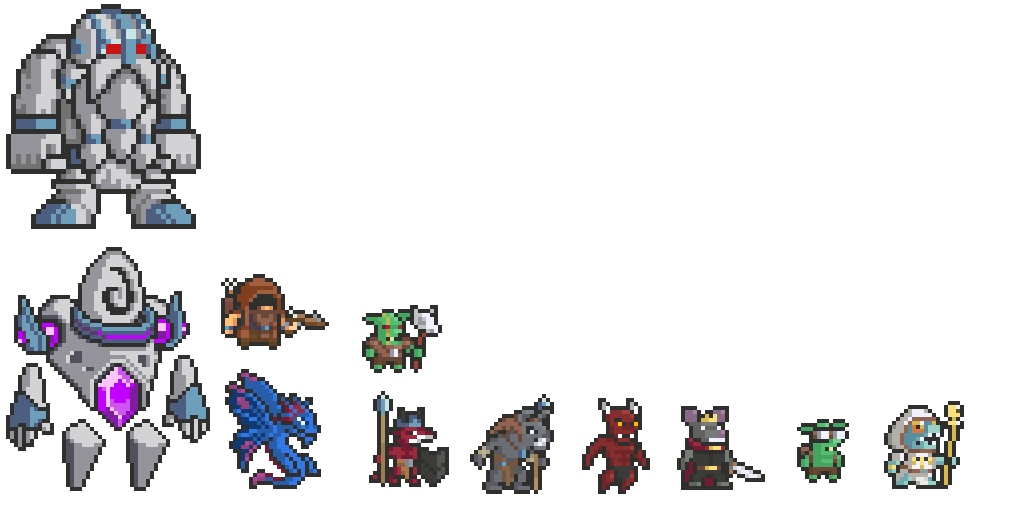
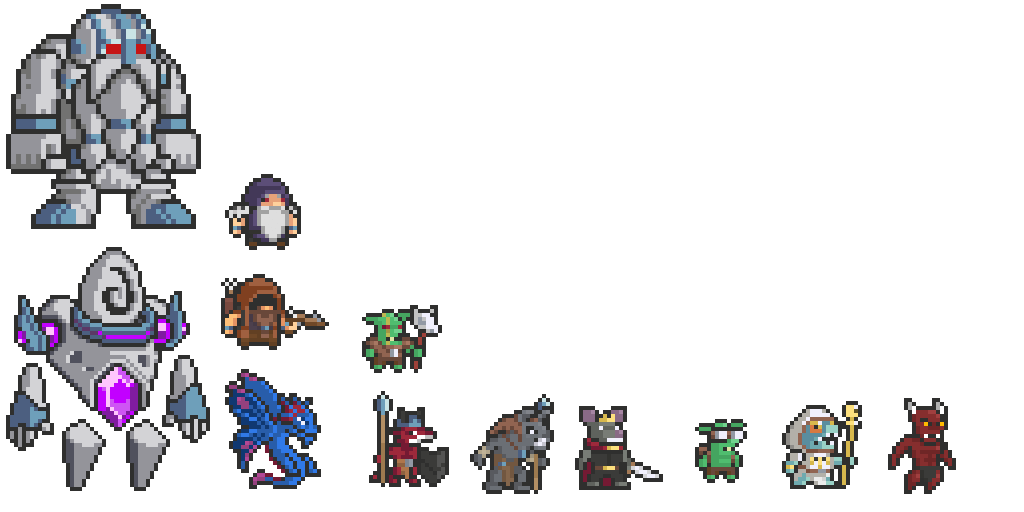
Ataque normal terminado

Changed region(s): [[0.5625, 0.7812, 0.9375, 0.9688], [0.2188, 0.3438, 0.3125, 0.5]]

diff --git a/core/src/View/ButtonsActionsView.java b/core/src/View/ButtonsActionsView.java
@@ -36,6 +36,7 @@ public class ButtonsActionsView extends Stage {
     private static final int WIDTH = 140;
     private final PlayScreen playScreen;
 
+
     private HudMovements hudMovements;
     private final GameController gameController = GameController.getInstance();
 
@@ -61,7 +62,52 @@ public class ButtonsActionsView extends Stage {
         buttonAttack = new ButtonComponent(this,imgButton , WIDTH, HEIGHT, 0, 440, new InputListener() {
             @Override
             public boolean touchDown(InputEvent event, float x, float y, int pointer, int button) {
-                System.out.println("Attack");
+                ButtonComponent armyButton = playScreen.getSelectedArmyButton();
+                ButtonComponent enemyArmyButton = playScreen.getSelectedEnemyArmyButton();
+
+                if((gameController.getPlayerInTurn().getChest().getAttacksInChest() != 0 || gameController.lanzarDados().get(4) ==1) && armyButton != null && enemyArmyButton != null) {
+
+                    Army currentArmy = gameController.getGameState().getSelectedArmy();
+                    Army enemyArmy = gameController.getGameState().getSelectedEnemyArmy();
+
+                    Coordinate currentArmyPosition = currentArmy.getPosition();
+                    Coordinate enemyArmyPosition = enemyArmy.getPosition();
+                    int currentX = currentArmyPosition.getX();
+                    int currentY = currentArmyPosition.getY();
+                    int enemyX = enemyArmyPosition.getX();
+                    int enemyY = enemyArmyPosition.getY();
+
+                    if(enemyX == currentX && enemyY == currentY + 1){
+                        gameController.atacar(currentArmy, enemyArmy);
+                    }
+                    else if(enemyX == currentX && enemyY == currentY - 1){
+                        gameController.atacar(currentArmy, enemyArmy);
+                    }
+                    else if(enemyX == currentX + 1 && enemyY == currentY){
+                        gameController.atacar(currentArmy, enemyArmy);
+                    }
+                    else if(enemyX == currentX - 1 && enemyY == currentY){
+                        gameController.atacar(currentArmy, enemyArmy);
+                    }
+                    else if(enemyX == currentX + 1 && enemyY == currentY + 1){
+                        gameController.atacar(currentArmy, enemyArmy);
+                    }
+                    else if(enemyX == currentX - 1 && enemyY == currentY - 1){
+                        gameController.atacar(currentArmy, enemyArmy);
+                    }
+                    else if(enemyX == currentX + 1 && enemyY == currentY - 1){
+                        gameController.atacar(currentArmy, enemyArmy);
+                    }
+                    else if(enemyX == currentX - 1 && enemyY == currentY + 1){
+                        gameController.atacar(currentArmy, enemyArmy);
+                    }
+                    else{
+                        System.out.println("No se puede atacar a esa unidad");
+                    }
+                }
+                else{
+                    System.out.println("No se puede atacar");
+                }
                 return super.touchDown(event, x, y, pointer, button);
             }
         });

diff --git a/core/src/BL/GameController.java b/core/src/BL/GameController.java
@@ -108,8 +108,8 @@ public class GameController {
         String armyName = gestorBridge.invocarInfanteria(gameState.getPlayerInTurn().getChest().getInfantry());
 
         if(armyName != null) {
-            Army infanteriaInvocada = gestorDecorador.addRandomSpecialAttack(gestorFabricaAbstracta.createArmy(gestorBridge.invocarInfanteria(gameState.getPlayerInTurn().getChest().getInfantry()), getPlayerInTurn()));
-
+            Army infanteriaInvocada = gestorFabricaAbstracta.createArmy(armyName, getPlayerInTurn());
+            //Army infanteriaInvocada = gestorDecorador.addRandomSpecialAttack(gestorFabricaAbstracta.createArmy(gestorBridge.invocarInfanteria(gameState.getPlayerInTurn().getChest().getInfantry()), getPlayerInTurn()));
             getPlayerInTurn().getChest().setInfantry(gestorBridge.evaluarCofreInfanteria(gameState.getPlayerInTurn().getChest().getInfantry()));
             return infanteriaInvocada;
         }
@@ -118,7 +118,8 @@ public class GameController {
     public Army invocarArtilleria(){
 
         if(!(gestorBridge.invocarArtilleria(gameState.getPlayerInTurn().getChest().getGunner()) == null)){
-            Army artilleriaInvocada = gestorDecorador.addRandomSpecialAttack(gestorFabricaAbstracta.createArmy(gestorBridge.invocarArtilleria(gameState.getPlayerInTurn().getChest().getGunner()), getPlayerInTurn()));
+            Army artilleriaInvocada = gestorFabricaAbstracta.createArmy(gestorBridge.invocarArtilleria(gameState.getPlayerInTurn().getChest().getGunner()), getPlayerInTurn());
+            //Army artilleriaInvocada = gestorDecorador.addRandomSpecialAttack(gestorFabricaAbstracta.createArmy(gestorBridge.invocarArtilleria(gameState.getPlayerInTurn().getChest().getGunner()), getPlayerInTurn()));
             getPlayerInTurn().getChest().setGunner(gestorBridge.evaluarCofreArtilleria(gameState.getPlayerInTurn().getChest().getGunner()));
             return artilleriaInvocada;
         }
@@ -126,7 +127,8 @@ public class GameController {
     }
     public Army invocarTanque(){
         if(!(gestorBridge.invocarTanque(gameState.getPlayerInTurn().getChest().getTank()) == null)){
-            Army tanqueInvocado = gestorDecorador.addRandomSpecialAttack(gestorFabricaAbstracta.createArmy(gestorBridge.invocarTanque(gameState.getPlayerInTurn().getChest().getTank()), getPlayerInTurn()));
+            Army tanqueInvocado = gestorFabricaAbstracta.createArmy(gestorBridge.invocarTanque(gameState.getPlayerInTurn().getChest().getTank()), getPlayerInTurn());
+            //Army tanqueInvocado = gestorDecorador.addRandomSpecialAttack(gestorFabricaAbstracta.createArmy(gestorBridge.invocarTanque(gameState.getPlayerInTurn().getChest().getTank()), getPlayerInTurn()));
             getPlayerInTurn().getChest().setTank(gestorBridge.evaluarCofreTanque(gameState.getPlayerInTurn().getChest().getTank()));
             return tanqueInvocado;
         }

diff --git a/core/src/View/ArmyView.java b/core/src/View/ArmyView.java
@@ -26,6 +26,7 @@ public class ArmyView extends Stage {
     private Label categoryLabel;
     private Label characterLabel;
     private Label specialAttackLabel;
+    private Label playerLabel;
 
     private final GameController gameController = GameController.getInstance();
     private static final int SIZE = 130;
@@ -71,8 +72,14 @@ public class ArmyView extends Stage {
 
         specialAttackLabel = new Label("", new Label.LabelStyle(new BitmapFont(), Color.WHITE));
         specialAttackLabel.setFontScale(2f);
-        specialAttackLabel.setPosition(800, -100);
+        specialAttackLabel.setPosition(760, -160);
         this.addActor(specialAttackLabel);
+
+        playerLabel = new Label("", new Label.LabelStyle(new BitmapFont(), Color.WHITE));
+        playerLabel.setFontScale(2f);
+        playerLabel.setPosition(600, -160);
+        this.addActor(playerLabel);
+
     }
 
     public void defineArmy(Army armyToInvoque){
@@ -89,6 +96,8 @@ public class ArmyView extends Stage {
             categoryLabel.setText("Category: ");
             characterLabel.setText("Character: ");
             //specialAttackLabel.setText("Special Attack: " + army.getSpecialAttack());
+            playerLabel.setText("Player ");
+
             currentArmyImg = armyImg;
 
         } else {
@@ -100,6 +109,7 @@ public class ArmyView extends Stage {
             categoryLabel.setText("Category: " + armyToInvoque.getCharacterType());
             characterLabel.setText("Character: " + armyToInvoque.getCharacterClass());
             //specialAttackLabel.setText("Special Attack: " + army.getSpecialAttack());
+            playerLabel.setText(armyToInvoque.getOwner().getName());
 
             switch (armyToInvoque.getCharacterClass()) {
                 case "ratallero":
@@ -170,7 +180,7 @@ public class ArmyView extends Stage {
                     currentArmyImg = armyImg;
                     break;
                 case "mago":
-                    armyDefault = playScreen.getArmyAtlas().findRegion("wizard-iddle");
+                    armyDefault = playScreen.getArmyAtlas().findRegion("mago");
                     armyImg = new Image();
                     armyImg.setDrawable(new TextureRegionDrawable(armyDefault));
                     armyImg.setSize(SIZE, SIZE);

diff --git a/core/src/View/Screens/PlayScreen.java b/core/src/View/Screens/PlayScreen.java
@@ -89,6 +89,8 @@ public class PlayScreen implements Screen {
     private GameController gameController = GameController.getInstance();
 
     private ButtonComponent selectedArmyButton;
+    private ButtonComponent selectedEnemyArmyButton;
+
 
     public PlayScreen(Music music){
         music.stop();
@@ -300,6 +302,10 @@ public class PlayScreen implements Screen {
                     gameController.getGameState().setSelectedArmy(army);
                     selectedArmyButton = buttonComponent;
                 }
+                else{
+                    gameController.getGameState().setSelectedEnemyArmy(army);
+                    selectedEnemyArmyButton = buttonComponent;
+                }
 
                 return super.touchDown(event, x, y, pointer, button);
             }
@@ -311,6 +317,10 @@ public class PlayScreen implements Screen {
     public ButtonComponent getSelectedArmyButton() {
         return this.selectedArmyButton;
     }
+    public ButtonComponent getSelectedEnemyArmyButton() {
+        return this.selectedEnemyArmyButton;
+    }
+
 
     public ButtonComponent knowWhatButtonCreate(final Army armyInvoked){
         ButtonComponent buttonArmy = null;
@@ -350,6 +360,10 @@ public class PlayScreen implements Screen {
             case "kamikaze":
                 buttonArmy = createButton(armyInvoked, "kamikaze.png", armyInvoked.getPosition(), stageBoard);
                 break;
+            case "mago":
+                buttonArmy = createButton(armyInvoked, "mago.png", armyInvoked.getPosition(), stageBoard);
+                break;
+
         }
 
         return buttonArmy;

diff --git a/core/src/Model/GameState.java b/core/src/Model/GameState.java
@@ -16,6 +16,8 @@ public class GameState {
     private Board board;
 
     private Army selectedArmy;
+    private Army selectedEnemyArmy;
+
 
 
     public static GameState getStateInstance(){
@@ -101,6 +103,13 @@ public class GameState {
 
     public void setSelectedArmy(Army selectedArmy) {
         this.selectedArmy = selectedArmy;
+    }
+    public Army getSelectedEnemyArmy() {
+        return selectedEnemyArmy;
+    }
+
+    public void setSelectedEnemyArmy(Army selectedEnemyArmy) {
+        this.selectedEnemyArmy = selectedEnemyArmy;
     }
 
     @Override

diff --git a/core/src/BL/characters_abstract_fabric/abstract_product/Army.java b/core/src/BL/characters_abstract_fabric/abstract_product/Army.java
@@ -1,5 +1,6 @@
 package BL.characters_abstract_fabric.abstract_product;
 
+import Model.Castle;
 import Model.Coordinate;
 import Model.Player;
 

diff --git a/core/src/Model/Player.java b/core/src/Model/Player.java
@@ -96,4 +96,6 @@ public class Player {
         Player player = (Player) obj;
         return this.name.equals(player.getName());
     }
+
+
 }
